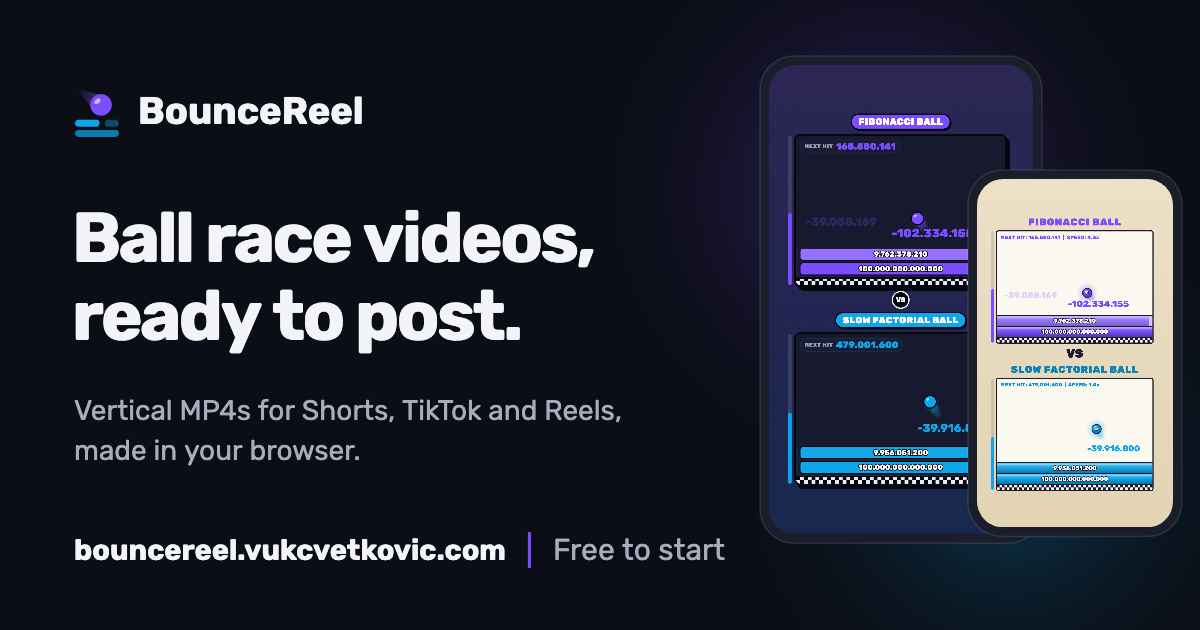
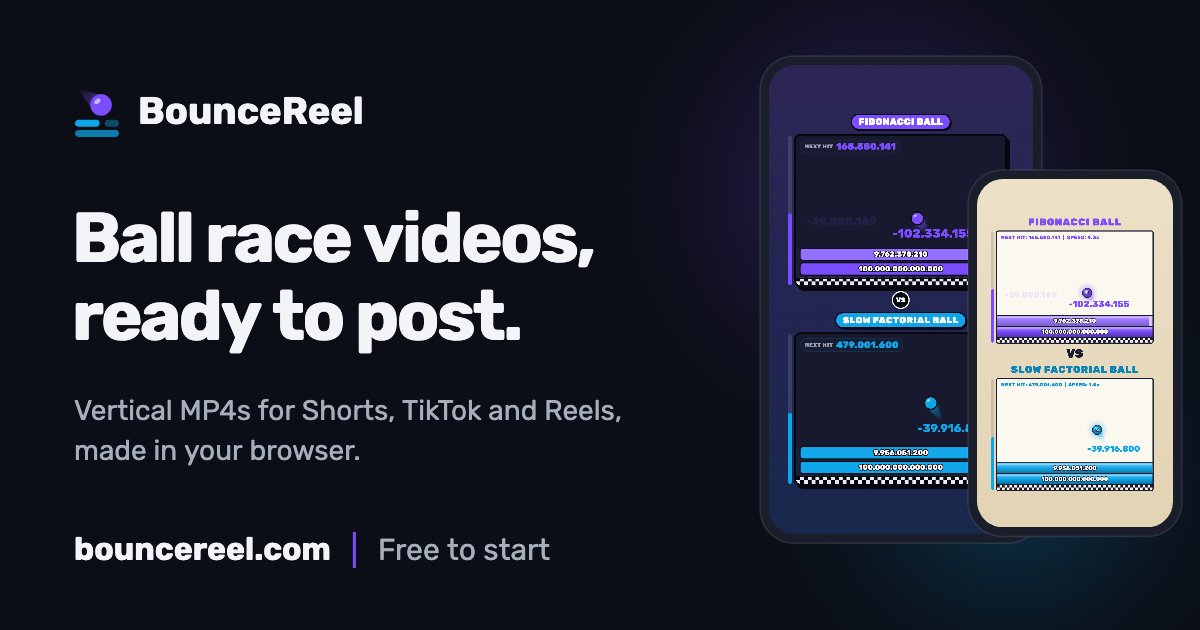
feat: move the site to bouncereel.com

diff --git a/shared/site.ts b/shared/site.ts
@@ -3,24 +3,26 @@
 
 /**
  * The canonical address: canonical links, Open Graph, the legal pages, the watermark on free
- * videos, links in mails from production. A subdomain of vukcvetkovic.com for now; the site moves
- * to its own domain once it is the full product (docs/build-and-deploy.md §5: SITE_URL in
- * wrangler.jsonc names it too).
+ * videos, links in mails from production. SITE_URL in wrangler.jsonc names it too, and
+ * PRODUCTION_URL in scripts/admin.mjs (docs/build-and-deploy.md §5).
  */
-export const SITE_URL = 'https://bouncereel.vukcvetkovic.com';
+export const SITE_URL = 'https://bouncereel.com';
 
 /**
- * Whether search engines may list the public pages. Off while the site is on the subdomain:
- * every page carries a robots `noindex, nofollow` (vite.config.ts), and public/_headers and
- * public/robots.txt say the same, which turning it on has to undo (docs/website.md §7).
+ * Whether search engines may list the public pages. Off, every page would carry a robots
+ * `noindex, nofollow` (vite.config.ts); public/_headers, public/robots.txt and
+ * public/sitemap.xml have to agree with it (docs/website.md §7).
  */
-export const INDEXED = false;
+export const INDEXED = true;
 
 /** The site's host, as text: the watermark, the legal pages. */
 export const SITE_HOST = new URL(SITE_URL).host;
 
-/** The address for questions, shown in the footer, the legal pages and every mail: Vuk's own, as on vukcvetkovic.com. */
-export const CONTACT_EMAIL = 'vuk@vukcvetkovic.com';
+/**
+ * The address for questions, shown in the footer, the legal pages and every mail (as Reply-To).
+ * Cloudflare Email Routing forwards it to Vuk's own mailbox; there is no mailbox on the domain.
+ */
+export const CONTACT_EMAIL = 'hello@bouncereel.com';
 
 /**
  * Who runs BounceReel: the controller the privacy page names and the party the terms are with.

diff --git a/worker/mail/resend.ts b/worker/mail/resend.ts
@@ -7,8 +7,12 @@ import { isLocal } from '../site.ts';
 // Hoops. The key is the Worker secret RESEND_API_KEY; the sender's domain must be verified in
 // Resend first.
 
-/** The sender, on vukcvetkovic.com, which is verified in Resend already (Hoops sends from it). */
-export const MAIL_FROM = 'BounceReel <bouncereel@vukcvetkovic.com>';
+/**
+ * The sender. bouncereel.com has to be verified in Resend (its DNS records in the zone) before
+ * a deploy with this goes live: from an unverified domain Resend refuses every mail, and no
+ * sign-up can confirm its address nor anyone set a new password.
+ */
+export const MAIL_FROM = 'BounceReel <hello@bouncereel.com>';
 
 /** Long enough for a slow answer, short enough that a sign-up does not hang on it. */
 const TIMEOUT_MS = 8000;

diff --git a/worker/site.ts b/worker/site.ts
@@ -2,7 +2,7 @@ import { HttpError } from './lib/http.ts';
 import { log } from './lib/log.ts';
 
 // The one setting the Worker needs in production: the site's own address, SITE_URL in
-// wrangler.jsonc ("https://bouncereel.vukcvetkovic.com"). Links in mails are built from it, never from the
+// wrangler.jsonc ("https://bouncereel.com"). Links in mails are built from it, never from the
 // request, so nothing a caller sends can point a password link at another site.
 //
 // It fails closed: without SITE_URL, every request the Worker answers in production is a 500,

diff --git a/worker-configuration.d.ts b/worker-configuration.d.ts
@@ -1,5 +1,5 @@
 /* eslint-disable */
-// Generated by Wrangler by running `wrangler types --strict-vars=false` (hash: a0af2f210c36adc428509fe4bf367e1c)
+// Generated by Wrangler by running `wrangler types --strict-vars=false` (hash: da6a2cdf7b647bca9d49f502e5ceccea)
 // Runtime types generated with workerd@1.20261012.1 2026-10-01
 interface __BaseEnv_Env {
 	DB: D1Database;

diff --git a/docs/build-and-deploy.md b/docs/build-and-deploy.md
@@ -2,8 +2,8 @@
 
 How BounceReel runs on Cloudflare: the Worker and its local D1 in dev, the settings and
 secrets it needs, the headers Kokoro needs on every page, which pages search engines may
-list, the production cut-over to `bouncereel.vukcvetkovic.com` and the later move to the site's
-own domain, releases, and the free plan's limits.
+list, the production cut-over on `bouncereel.com` with its mail, releases, and
+the free plan's limits.
 Accounts and the session check themselves: [accounts-and-billing](./accounts-and-billing.md).
 
 | I need to change... | Touch |
@@ -11,7 +11,7 @@ Accounts and the session check themselves: [accounts-and-billing](./accounts-and
 | a script | [package.json](../package.json) |
 | the Worker's config: domain, D1, vars, assets, which paths reach the Worker first | [wrangler.jsonc](../wrangler.jsonc), then `npm run cf-typegen` |
 | a header on the pages or their files | [public/_headers](../public/_headers) (production), [vite.config.ts](../vite.config.ts) (dev and preview), [worker/pages.ts](../worker/pages.ts) (the pages behind the sign-in) |
-| what search engines may list (nothing, for now) | `INDEXED` in [shared/site.ts](../shared/site.ts), [public/robots.txt](../public/robots.txt), [public/_headers](../public/_headers) ([website](./website.md#7-search-engines)) |
+| what search engines may list (the public pages) | `INDEXED` in [shared/site.ts](../shared/site.ts), [public/robots.txt](../public/robots.txt), [public/sitemap.xml](../public/sitemap.xml), [public/_headers](../public/_headers) ([website](./website.md#7-search-engines)) |
 | a secret | `npx wrangler secret put NAME`, declared in [worker/env.d.ts](../worker/env.d.ts) |
 | the build: pages, the Worker, the version | [vite.config.ts](../vite.config.ts) |
 | the release flow | [release.js](../release.js) |
@@ -76,7 +76,7 @@ npm run admin -- you@example.com     # a local superadmin: open the printed link
 
 | Name | Kind | Without it |
 | --- | --- | --- |
-| `SITE_URL` | var, `https://bouncereel.vukcvetkovic.com` (the same as in shared/site.ts) | in production every request the Worker answers is a 500 `not_configured`: **it fails closed** ([worker/site.ts](../worker/site.ts)) |
+| `SITE_URL` | var, `https://bouncereel.com` (the same as in shared/site.ts) | in production every request the Worker answers is a 500 `not_configured`: **it fails closed** ([worker/site.ts](../worker/site.ts)) |
 | `RESEND_API_KEY` | secret | no mail is sent; the forgot form answers 503 in production; sign-up still works, the confirmation waits for the banner's button |
 | `DB` | D1 binding | nothing works |
 | `ASSETS` | assets binding | the pages behind the sign-in cannot be served |
@@ -105,10 +105,9 @@ fetches its media whole and plays it from a blob URL (`wholeFile` in
 [src/site/home.ts](../src/site/home.ts), [website](./website.md#4-the-home-page)); a video or sound
 linked straight from `public/` would not play in Safari.
 
-**Nothing is indexed for now** ([website](./website.md#7-search-engines)): every page is
-`noindex, nofollow` (`INDEXED` off), every file answers `X-Robots-Tag: noindex, nofollow`, and
-[robots.txt](../public/robots.txt) disallows everything. On the site's own domain it opens: the
-public pages listed, everything behind the sign-in and the API still noindex.
+**The public pages are indexed** ([website](./website.md#7-search-engines)): `INDEXED` on, a
+[sitemap](../public/sitemap.xml), and [robots.txt](../public/robots.txt) keeping out `/app`,
+`/account`, `/admin` and `/api`; the pages behind the sign-in and the API answer noindex.
 
 `workers_dev` and `preview_urls` stay off: a `*.workers.dev` or preview URL would be a second
 copy of the site under another name.
@@ -123,55 +122,45 @@ the throttling and the order of the checks:
 
 ## 5. The production cut-over
 
-The first deploy of the public site, on **`bouncereel.vukcvetkovic.com`** for now, kept out of
-search engines (the move to the site's own domain is at the end of this section). **The owner runs
-these steps**; agents never deploy or run anything `--remote` without asking.
+The site is on **`bouncereel.com`**, registered with Cloudflare Registrar, so its zone is in the
+account with Cloudflare's nameservers. **The owner runs these steps**; agents never deploy or
+run anything `--remote` without asking. The database is tied to the Worker (`database_id`), not
+to the domain: a change of address keeps every account, password, video, plan and subscription.
 
 1. **The database**, if production has none yet: `npx wrangler login`, then
    `npx wrangler d1 create bouncereel`, and the printed `database_id` into
-   [wrangler.jsonc](../wrangler.jsonc) in place of the zeros (⚠ the local database follows the
-   id: section 2).
-2. **Mail**: `vukcvetkovic.com` is verified in Resend already (Hoops sends from it), so
-   `npx wrangler secret put RESEND_API_KEY` with a key of that Resend account is all. The sender
-   is `MAIL_FROM` ([worker/mail/resend.ts](../worker/mail/resend.ts),
-   `BounceReel <bouncereel@vukcvetkovic.com>`), replies go to `CONTACT_EMAIL`
-   ([shared/site.ts](../shared/site.ts), `vuk@vukcvetkovic.com`).
-3. **Deploy**: `npm run deploy`. It builds, applies the migrations to the production database
-   (the accounts and plans tables, an owner column on the videos), uploads the Worker and the
-   files, and attaches `bouncereel.vukcvetkovic.com` as a custom domain (DNS record and
-   certificate; the zone is in the account already). `SITE_URL` is already in
-   [wrangler.jsonc](../wrangler.jsonc).
-4. **The superadmin**: `npm run admin -- <your address> --remote`, then open the printed
-   link and set the password. Making the first superadmin gives it the videos recorded before
-   accounts.
-5. **Sign in** on `https://bouncereel.vukcvetkovic.com/login`, open the studio and the Videos
-   page, record something short, and open `/admin`.
-6. **Check from a private window**: `https://bouncereel.vukcvetkovic.com/` shows the home page,
-   `/app` goes to the login page, `/api/videos` answers 401 JSON, `/admin` goes to the login
-   page, and `/robots.txt` disallows everything.
+   [wrangler.jsonc](../wrangler.jsonc) (⚠ the local database follows the id: section 2).
+2. **Mail, before the deploy**: `bouncereel.com` verified in Resend (Domains → Add domain, its
+   DNS records into the zone), and `npx wrangler secret put RESEND_API_KEY` with a key of that
+   Resend account if it is not set yet. The sender is `MAIL_FROM`
+   ([worker/mail/resend.ts](../worker/mail/resend.ts), `BounceReel <hello@bouncereel.com>`);
+   replies go to `CONTACT_EMAIL` ([shared/site.ts](../shared/site.ts), `hello@bouncereel.com`),
+   which **Cloudflare Email Routing** forwards to the owner's own mailbox (the zone → Email →
+   Email Routing, a custom address `hello`). ⚠ From an unverified domain Resend refuses every
+   mail: no sign-up can confirm its address and no one can set a new password.
+3. **Deploy**: `npm run deploy`. It builds, applies the migrations to the production database,
+   uploads the Worker and the files, and attaches `bouncereel.com` as its custom domain (DNS
+   record and certificate; a new certificate takes a few minutes). It is the only address: the
+   Worker has no other domain, workers.dev or preview URL.
+4. **`www`**: in the bouncereel.com zone, a proxied `AAAA` record `www` → `100::` and a redirect
+   rule from the template "Redirect from WWW to root" (301).
+5. **The superadmin**, on a new production database: `npm run admin -- <your address> --remote`,
+   then open the printed link and set the password. Making the first superadmin gives it the
+   videos recorded before accounts.
+6. **Sign in** on `https://bouncereel.com/login`, open the studio and the Videos page, record
+   something short, and open `/admin`.
+7. **Check from a private window**: `https://bouncereel.com/` shows the home page, `/app` goes to
+   the login page, `/api/videos` answers 401 JSON, `/admin` goes to the login page, `/robots.txt`
+   keeps out `/app`, `/account`, `/admin` and `/api` and names the sitemap, and
+   `https://www.bouncereel.com/` answers 301 to `https://bouncereel.com/`.
 
-**Later, the move to the site's own domain** (as the full product). The database is tied to the
-Worker (`database_id`), not to the domain: every account, password, video, plan and
-subscription stays, and step 1 is not done again.
-
-1. **The domain in Cloudflare**: add it as a zone in the account (Websites → Add a domain) and
-   point the registrar's nameservers at Cloudflare; wait until it is Active. A redirect rule
-   from `www.` to the apex if `www` should work.
-2. **The address**: `SITE_URL` in [shared/site.ts](../shared/site.ts) (canonical links, Open
-   Graph, the legal pages, the watermark on free videos) and in [wrangler.jsonc](../wrangler.jsonc)
-   (links in mails) with its `routes` (keep the old one beside it while both should answer),
-   `PRODUCTION_URL` in [scripts/admin.mjs](../scripts/admin.mjs); then the share image made again
-   on the stills page ([website](./website.md#5-the-images)).
-3. **Search engines**: open the site to them ([website](./website.md#7-search-engines): `INDEXED`,
-   _headers, robots.txt, a sitemap).
-4. **Mail**, if it should come from the new domain: verify it in Resend (its DNS records go in
-   the new zone), then `MAIL_FROM` and, with a mailbox there (Cloudflare's Email Routing can
-   forward one), `CONTACT_EMAIL`.
-5. **Deploy**, then check as in steps 5 and 6 on the new address.
-6. **The old address**: a 301 redirect from `bouncereel.vukcvetkovic.com` to the new domain (a
-   redirect rule in the vukcvetkovic.com zone), and its custom domain removed from the Worker
-   (Workers → bouncereel → Settings → Domains). ⚠ The session cookie belongs to its host
-   (`__Host-`), so everyone signs in once more on the new domain, with the same password.
+**A change of address**: `SITE_URL` in [shared/site.ts](../shared/site.ts) and in
+[wrangler.jsonc](../wrangler.jsonc) with its `routes`, `PRODUCTION_URL` in
+[scripts/admin.mjs](../scripts/admin.mjs), the sitemap and robots.txt, `MAIL_FROM` and
+`CONTACT_EMAIL` if the mail moves too, the share image made again
+([website](./website.md#5-the-images)). The session cookie belongs to its host (`__Host-`), so
+everyone signs in once more on a new address; a redirect rule in the old address's zone (301,
+path and query kept) keeps links to it working, as long as it keeps a proxied DNS record.
 
 **Every later deploy** is `npm run deploy` from `main`, or a push to `main` once Workers
 Builds is connected (below). It **applies pending migrations to production before the new
@@ -240,3 +229,4 @@ Workers Free plan:
 - 2026-10-23 - `.nvmrc` pins Node 24.22.1, the Active LTS release with the October 2026 security fixes (a Brotli decoder RCE, TLS hostname checks) that 22.23.2 does not have.
 - 2026-10-24 - the site goes on `bouncereel.vukcvetkovic.com` for now, kept out of search, mail from `bouncereel@vukcvetkovic.com` (verified in Resend for Hoops); the cut-over without Access (nothing was deployed before); the later move to the site's own domain in its own steps; `.gitignore` keeps the gallery's videos and drops `.DS_Store`.
 - 2026-10-24 - Workers Builds runs `npm run deploy` (build command empty), so a release applies its migrations before the code goes live.
+- 2026-11-07 - the site on `bouncereel.com`: `SITE_URL` and its custom domain, `bouncereel.vukcvetkovic.com` taken off the Worker (it was never used), `www` to the apex, mail from `hello@bouncereel.com` (Resend before the deploy, Email Routing for replies), the public pages indexed, the steps for a later change of address.

diff --git a/docs/website.md b/docs/website.md
@@ -1,6 +1,6 @@
 # Website
 
-The public site on `https://bouncereel.vukcvetkovic.com` (`SITE_URL`; its own domain once it is the full product), kept out of search engines for now: which page is where, the parts the pages share,
+The public site on `https://bouncereel.com` (`SITE_URL`), listed by search engines: which page is where, the parts the pages share,
 the look, the home page and its live race, the images, speed, search engines, the words, and
 the legal pages. Accounts, plans and the admin area are in
 [accounts-and-billing](./accounts-and-billing.md); the studio is everywhere else.
@@ -9,13 +9,13 @@ the legal pages. Accounts, plans and the admin area are in
 | --- | --- |
 | a page's words | its HTML file at the root: [index.html](../index.html), [pricing.html](../pricing.html), [signup.html](../signup.html), [login.html](../login.html), [forgot.html](../forgot.html), [reset.html](../reset.html), [verify.html](../verify.html), [terms.html](../terms.html), [privacy.html](../privacy.html), [refunds.html](../refunds.html), [404.html](../404.html) |
 | the header, the footer, the shared head | [src/site/partials/](../src/site/partials/) (`header.html`, `footer.html`, `head.html`) |
-| a new page | its HTML file, its line in `PAGES` in [vite.config.ts](../vite.config.ts) (and in the sitemap, once there is one: §7) |
+| a new page | its HTML file, its line in `PAGES` in [vite.config.ts](../vite.config.ts), and its address in [public/sitemap.xml](../public/sitemap.xml) if search engines should list it (§7) |
 | the look: colours, type, components | [src/site/site.css](../src/site/site.css) (tokens at the top) |
 | the live race in the hero | [src/site/hero.ts](../src/site/hero.ts); when it loads: [src/site/home.ts](../src/site/home.ts) |
 | the pricing cards | [src/site/pricing.ts](../src/site/pricing.ts); what a plan includes, in words: `describeFeatures` in [shared/features.ts](../shared/features.ts) |
 | the sign-in forms | [src/site/auth.ts](../src/site/auth.ts) |
 | the hero's still frame, the looks, the share image | [scripts/stills.ts](../scripts/stills.ts) (section 5) |
-| indexing: robots, noindex (and a sitemap, once listed) | `INDEXED` in [shared/site.ts](../shared/site.ts), [public/robots.txt](../public/robots.txt), [public/_headers](../public/_headers), `noindex` in a page's `site:head` line (§7) |
+| indexing: robots, noindex, the sitemap | `INDEXED` in [shared/site.ts](../shared/site.ts), [public/robots.txt](../public/robots.txt), [public/sitemap.xml](../public/sitemap.xml), [public/_headers](../public/_headers), `noindex` in a page's `site:head` line (§7) |
 | an old address that moved | [public/_redirects](../public/_redirects) |
 | the contact address, the canonical origin, who runs the site (the legal pages) | [shared/site.ts](../shared/site.ts) `CONTACT_EMAIL`, `SITE_URL`, `OPERATOR_NAME`, `OPERATOR_PLACE` |
 | the logo | [public/mark.svg](../public/mark.svg) (`.mark` in site.css, `.logo` in src/style.css), [public/favicon.svg](../public/favicon.svg); on a canvas `drawMark` in [src/render/renderer.ts](../src/render/renderer.ts) |
@@ -400,30 +400,30 @@ height of what is already on screen.
 
 ## 7. Search engines
 
-**Nothing is listed while the site is on `bouncereel.vukcvetkovic.com`** (`INDEXED` off in
-[shared/site.ts](../shared/site.ts)); it opens to search engines on its own domain, as the full
-product:
+**The public pages are listed** (`INDEXED` on in [shared/site.ts](../shared/site.ts)); nothing
+behind the sign-in is:
 
-- every page's head has `<meta name="robots" content="noindex, nofollow">` (the `site:head`
-  partial, [vite.config.ts](../vite.config.ts), from `INDEXED`);
-- every page and file Workers Assets serves answers `X-Robots-Tag: noindex, nofollow` (the `/*`
-  rule in [public/_headers](../public/_headers)), so images and videos stay out of image search
-  too; the Worker's own answers (the API, the pages behind the sign-in) send it always
-  ([worker/lib/http.ts](../worker/lib/http.ts), [worker/pages.ts](../worker/pages.ts));
-- [robots.txt](../public/robots.txt) disallows everything, and there is no sitemap.
+- [public/sitemap.xml](../public/sitemap.xml) lists `/`, `/pricing`, `/signup`, `/login`,
+  `/forgot`, `/terms`, `/privacy` and `/refunds` on `SITE_URL`. A new public page goes in it. It
+  has no `lastmod`: a date kept by hand drifts, and search engines ignore one they cannot trust.
+- [robots.txt](../public/robots.txt) disallows `/app`, `/account`, `/admin` and `/api`, and names
+  the sitemap.
+- [public/_headers](../public/_headers) sends `X-Robots-Tag: noindex, nofollow` on `/app`,
+  `/account`, `/admin` and their pages, and `noindex` on `/reset` and `/verify`; the Worker's own
+  answers (the API, the pages behind the sign-in) send it always
+  ([worker/lib/http.ts](../worker/lib/http.ts), [worker/pages.ts](../worker/pages.ts)).
+- `/reset`, `/verify` and the 404 page are `noindex` in their `site:head` line too: a one-time
+  link indexed would be a page saying the link is invalid.
+- Each public page has a title, a description, a canonical URL on `SITE_URL` and the Open Graph
+  image (§2, §5).
 
-⚠ A crawler that obeys robots.txt never fetches a page, so it never reads its noindex either: a
-page linked from elsewhere can still show up as a bare address with no text. The noindex is for
-crawlers that ignore robots.txt.
+⚠ A crawler that obeys robots.txt never fetches a page it disallows, so it never reads its
+noindex either: such a page linked from elsewhere can still show up as a bare address with no
+text. That is why `/reset` and `/verify` are not in robots.txt: their noindex has to be read.
 
-**Going public** (with the move to the domain, docs/build-and-deploy.md §5): `INDEXED` on; the
-`X-Robots-Tag` line out of the `/*` rule in _headers (the rules for `/app`, `/account`, `/admin`,
-`/reset` and `/verify` stay); robots.txt back to disallowing only `/app`, `/account`, `/admin` and
-`/api`, with a `Sitemap:` line; and `public/sitemap.xml` listing `/`, `/pricing`, `/signup`,
-`/login`, `/forgot`, `/terms`, `/privacy` and `/refunds`. Then, as before: each public page has a
-title, a description, a canonical URL on `SITE_URL` and an Open Graph image; `/reset`, `/verify`
-and the 404 page stay noindex (their `site:head` line says so: a one-time link indexed would be a
-page saying the link is invalid).
+**To hide the whole site again**: `INDEXED` off (every page gets `noindex, nofollow`),
+`X-Robots-Tag: noindex, nofollow` back on the `/*` rule in _headers, robots.txt to `Disallow: /`,
+and the sitemap out.
 
 ## 8. The words
 
@@ -484,3 +484,4 @@ used for.
 - 2026-10-29 - a superadmin sees "Your plan" on no pricing card, and Open studio on the free one.
 - 2026-11-02 - the sequences card lists fifteen sequences and 79 pairings (Golden ratio added); the hero rolls and plays no crowds.
 - 2026-11-03 - the opening title on panels, with what each ball does, the question under the VS, and the race starting on a small layer with no hold, so the still (`hero/first-frame-4.webp`), the looks, the share image and the gallery (`<name>-3`, 0.87–1.03 MB) were made again; the cover leaves out a ball half under a panel, and the gallery has the 2 s winner card, LAST LAYER! and races won from behind.
+- 2026-11-07 - on `bouncereel.com` and listed: `INDEXED` on, robots.txt disallowing only `/app`, `/account`, `/admin` and `/api` and naming `public/sitemap.xml` (the eight public pages), `X-Robots-Tag` off the `/*` rule; the share image made again with the new address.

diff --git a/docs/look-and-layout.md b/docs/look-and-layout.md
@@ -273,9 +273,9 @@ the narrator says the same in words ("…, and it speeds up").
 
 **The watermark**, on a plan whose `watermark` feature is on
 ([accounts and billing](./accounts-and-billing.md)): the BounceReel mark (42 px) and the site's
-host (`SITE_HOST` in [shared/site.ts](../shared/site.ts), `bouncereel.vukcvetkovic.com` for now) in
+host (`SITE_HOST` in [shared/site.ts](../shared/site.ts), `bouncereel.com`) in
 Rubik 800 up to 32 px, narrowed to fit between 40 px from the frame's edge and the VS (that host
-comes out at about 27 px), right-aligned 64 px left of the frame's centre, on
+fits at the full 32 px: 271 of the 384 px), right-aligned 64 px left of the frame's centre, on
 the VS line (y 962). That is the gap between the two cards: it is in every frame of every
 look, under no platform's buttons (§9), and nothing of the race is drawn there; the opening's
 question stands under the VS for it (§11). Ink at
@@ -458,3 +458,4 @@ The narrator's "Follow for more!" is in [sound and narration](./sound-and-narrat
 - 2026-10-30 - the looks come in the order paper, night, cards: in the studio, the admin's plan form, a plan's words and the home page.
 - 2026-11-03 - the opening title on panels: each ball's tag, name and what it does (`rule`) on an opaque panel in its tint across the top of its box, over the strip where the ball comes down to its first hits; the race's VS over the wash and the question in a gold-on-ink pill under it, clear of the watermark; the words go before the panels; the cover leaves out a ball half under a panel. A damage number takes away any it would touch: nothing is drawn through or over anything else.
 - 2026-11-03 - LAST LAYER! in a ball's name row for 2 s as it reaches its last layer, the row going before it and coming back after.
+- 2026-11-07 - the watermark says `bouncereel.com`, at the full 32 px.

diff --git a/docs/accounts-and-billing.md b/docs/accounts-and-billing.md
@@ -123,8 +123,9 @@ neither the words nor the timing tell. **Sign-up does tell**: an address already
 below is what slows a script testing addresses.
 
 **Mail** goes through Resend ([worker/mail/resend.ts](../worker/mail/resend.ts), one `fetch`,
-no SDK), from `MAIL_FROM` (`BounceReel <bouncereel@vukcvetkovic.com>`, a domain verified in
-Resend for Hoops), replies to `CONTACT_EMAIL` (`vuk@vukcvetkovic.com`). **Without `RESEND_API_KEY` nothing is
+no SDK), from `MAIL_FROM` (`BounceReel <hello@bouncereel.com>`, a domain verified in
+Resend: from an unverified one every mail is refused), replies to `CONTACT_EMAIL`
+(`hello@bouncereel.com`, which Cloudflare Email Routing forwards to Vuk's own mailbox). **Without `RESEND_API_KEY` nothing is
 sent**: on localhost the link goes to the Worker's log instead (`Mail is off (no
 RESEND_API_KEY); the link it would carry`), so dev works; in production it is never logged
 (a link is a password), and the forgot form answers 503 `mail_unavailable` to everyone. The
@@ -472,3 +473,4 @@ places ([worker/routes/billing.ts](../worker/routes/billing.ts)):
 - 2026-10-24 - the Videos page in the console look (src/console.css), with the account page's top bar; the console's selects keep their chevron; a page under the top bar is centred.
 - 2026-10-29 - a superadmin is on no plan in the admin area ("Everything", in no plan's count or filter, no subscription form) nor on the pricing page; deleting the plan its row names moves the row to the default plan.
 - 2026-10-30 - the `follow` feature (0009_follow_button.sql: on every plan but the default one): the studio's Ask viewers to follow switch, locked on a plan without it, and checked on save.
+- 2026-11-07 - mail from `hello@bouncereel.com`, replies to the same address (Cloudflare Email Routing forwards it).

diff --git a/docs/README.md b/docs/README.md
@@ -38,8 +38,8 @@ anything else.
 
 - **[Build and deploy](./build-and-deploy.md)** - Cloudflare: the Worker and local D1 in
   dev, the settings and secrets (`SITE_URL`, `RESEND_API_KEY`), the isolation headers on every
-  page, which pages search engines may list (none, for now), the production cut-over to
-  `bouncereel.vukcvetkovic.com` and the later move to the site's own domain, releases, free-plan limits.
+  page, which pages search engines may list (the public ones), the production cut-over on
+  `bouncereel.com` with its mail, releases, free-plan limits.
 
 - **[Video library](./video-library.md)** - each account's database of recordings: why a
   config is enough, the schema, the `/api` routes, what the plan allows on save, what Record

diff --git a/AI_CONTEXT.md b/AI_CONTEXT.md
@@ -2,8 +2,8 @@
 
 ## What this is
 
-**BounceReel** is a public website, `https://bouncereel.vukcvetkovic.com` for now and kept out of
-search engines (`SITE_URL`, `INDEXED` in shared/site.ts), where creators make short
+**BounceReel** is a public website, `https://bouncereel.com`, listed by search engines
+(`SITE_URL`, `INDEXED` in shared/site.ts), where creators make short
 vertical game videos for YouTube Shorts, TikTok and Instagram Reels: 1080×1920, 60 fps,
 recorded in the browser straight to MP4, with synthesised sound and a narrator. Anyone can
 sign up; a **plan** decides what the account may make (the free plan's videos carry a small

diff --git a/AGENTS.md b/AGENTS.md
@@ -1,7 +1,7 @@
 # AGENTS.md
 
 This file orients Claude Code (and any AI agent) working in this repository:
-**BounceReel**, a public website (`https://bouncereel.vukcvetkovic.com` for now, kept out of search) where creators make game videos
+**BounceReel**, a public website (`https://bouncereel.com`) where creators make game videos
 for Shorts, TikTok and Reels, vertical (1080×1920, 60 fps) and recorded in the browser straight
 to MP4 with synthesised sound and a narrator. People sign up, a plan decides what they may
 make, and each account keeps its recordings in a video library (D1) with their links to the

diff --git a/README.md b/README.md
@@ -2,7 +2,7 @@
 
 Game videos for YouTube Shorts, TikTok and Reels: vertical (1080×1920, 60 fps), recorded in
 the browser straight to MP4 with sound and a narrator. A public site on
-[bouncereel.vukcvetkovic.com](https://bouncereel.vukcvetkovic.com) for now: sign up, make videos on your plan, keep them in a
+[bouncereel.com](https://bouncereel.com): sign up, make videos on your plan, keep them in a
 library with their links.
 
 The first game is **ball races**. Two balls, one card each. Only a hit on the floor
